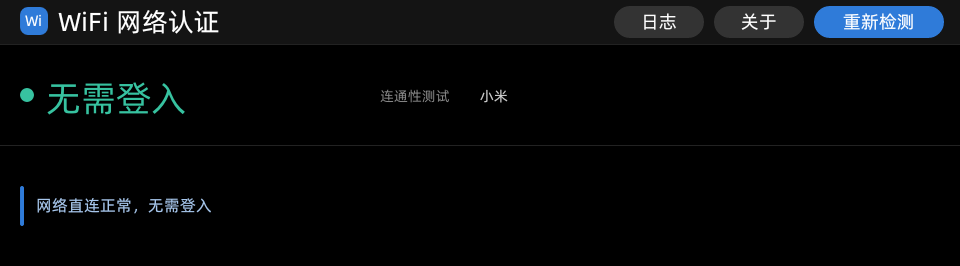
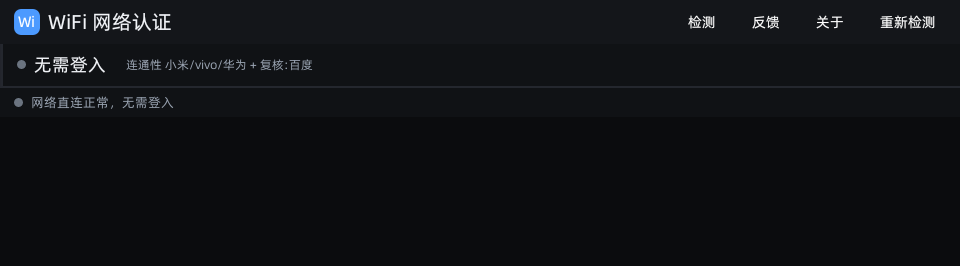
docs: README 对齐当前版本并更新全部真机截图; CHANGELOG 补齐 1.1.5 全部修复与贡献者
README:
- 功能表新增「问题反馈页」条目, 使用步骤补反馈与用户群两步;
- 功能检测页描述改为"真实系统信息"(SKU/主机名/PCBA/词典笔OS/编译时间/内核/架构/板型/SoC,
  原生读设备文件, 非框架自报值);
- 新增「界面截图」章节, 六页真机截图两两成对排版并附一句说明。

截图: 用 hal-screen on 亮屏后 miniapp_cli capture 抓取(960x266 真机分辨率), 覆盖
主页/功能检测/设备管理/数据清理/问题反馈/关于; 删除已下线的日志页截图与旧关于页截图。

CHANGELOG: 1.1.5 修复段补齐本轮全部条目(cleanUp 页名黑屏/清理页滚动/检测页卡顿与真实信息/
关于页二维码/反馈页样式与输入法/反馈提交原生层五处/UTF-8 解码性能), 并新增「贡献者」段注明
H3C iMC 与 CVI 适配由 @wanfeng74 通过 PR #2 贡献。

diff --git a/README.md b/README.md
@@ -44,7 +44,12 @@
   单台下线（`user_offone`，`addr` 是目标设备在线 IP）、全部下线；15 秒自动刷新。
 - **记住密码按网络隔离**：按当前网络名分别保存（结构 `{ version:2, accounts:{ "<ssid>": {...} } }`），
   换网络不会串用上一个网络的账号；保存后**回读校验**并写日志，密码在界面上只显示圆点掩码。
-- **功能检测页**：一眼看清系统版本、固件给了哪些能力、本应用是否兼容，并给出可留档的文本报告。
+- **功能检测页**：一眼看清**真实系统信息**（SKU / 主机名 / PCBA / 词典笔 OS / 固件编译时间 / 内核 / 架构 / 板型 / SoC，
+  由原生直接读设备文件得出，不是框架自报的版本号）、固件注册了哪些 API、本应用是否兼容，并给出可留档的文本报告。
+- **问题反馈页**：顶栏「反馈」进入。用系统输入法写「问题描述」与「详细情况」（均必填），
+  可留 QQ / 邮箱方便回访；提交时**自动附上机型 SKU、词典笔系统版本、运行日志与能力报告**，
+  无需用户手工收集。勾选《用户条款》后才能提交，条款逐条列明收集与不收集的内容；
+  页面顶部固定标注网页反馈入口（设备没网时可用电脑 / 手机打开），并可一键跳到「关于」页扫码加群。
 - **数据清理页**：清理前明确告诉你**会删掉哪些东西**（全部已保存账号），二次确认才执行。
 - **旧数据自动迁移**：升级后历史位置的数据自动并入应用数据目录，迁移完成会提示一次。
 - **兼容性检测**：启动时对存储（写—读回环）/ 页面基类 / 原生扩展 / 网络逐项真实调用，
@@ -82,6 +87,25 @@ adb shell "miniapp_cli start 8001865309000001 index"
 > `miniapp_cli uninstall 8001865309000001` 再 install。
 > 卸载会清空应用数据（含记住的账号），卸载前可先备份 `$dataDir`。
 
+## 📸 界面截图
+
+> 均为真机截图（960×266 横条屏，X6 Pro / 词典笔 OS 4.3.5）。
+
+| 主页 | 功能检测 |
+| --- | --- |
+| ![主页](screenshots/home.png) | ![功能检测](screenshots/diag.png) |
+| 连通性结论、登录表单、认证类型与设备管理入口 | 真实系统信息（SKU / 主机名 / PCBA / 词典笔 OS）、固件 API、五项自检 |
+
+| 设备管理 | 数据清理 |
+| --- | --- |
+| ![设备管理](screenshots/management.png) | ![数据清理](screenshots/cleanup.png) |
+| 在线设备列表、单台 / 全部下线 | 清理前明确列出会删与不会删的内容 |
+
+| 问题反馈 | 关于 |
+| --- | --- |
+| ![问题反馈](screenshots/feedback.png) | ![关于](screenshots/about.png) |
+| 填现象与详细情况，自动附机型与日志，勾选条款后提交 | 版本、简介、仓库与用户群二维码 |
+
 ## 🧭 使用
 
 1. **检测**：打开应用自动检测；顶栏「重新检测」可随时手动重检（不受自动节流限制）。
@@ -89,6 +113,9 @@ adb shell "miniapp_cli start 8001865309000001 index"
 3. **设备管理**：认证成功后，若该网络的门户支持设备管理，会出现「设备管理」入口。
 4. **功能检测**：顶栏「检测」页可查看系统与固件能力、兼容性判定和五项自检结果，排查问题先看它。
 5. **数据清理**：设置里的空间清理入口会打开本应用的清理页，确认后清除全部已保存账号。
+6. **问题反馈**：顶栏「反馈」→ 写清现象与详细情况 → 勾选条款 → 提交，自动带上机型与日志；
+   设备没网时页面顶部给了网页反馈地址，可用电脑 / 手机提交。
+7. **用户群**：「关于」页有 QQ 群号与二维码，也可在「反馈」页点「查看群二维码」直达。
 
 运行数据都保存在应用自己的数据目录（`wifi.log`、`wifi_account.json`），可从系统「空间清理」统一清除。
 
